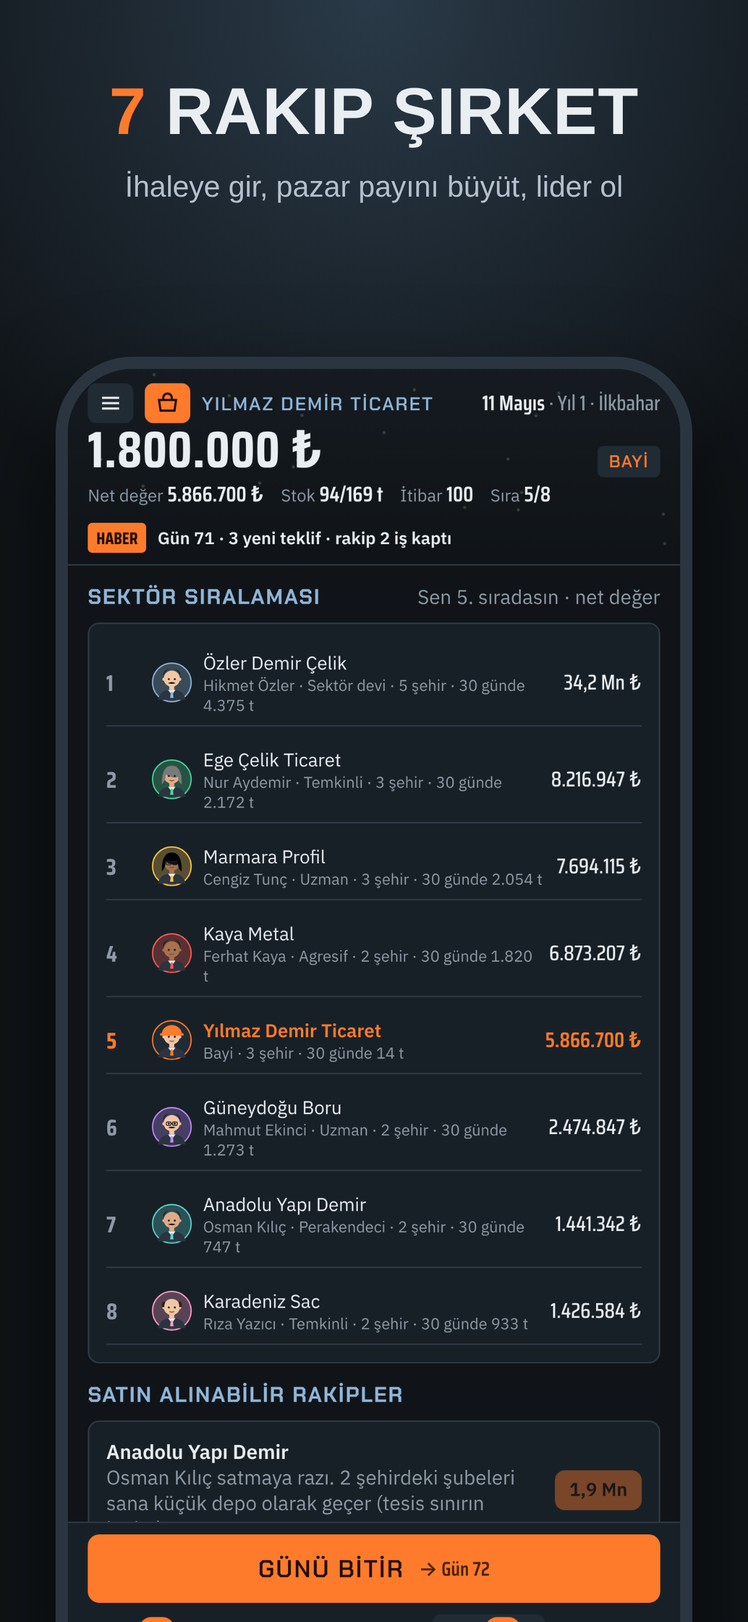
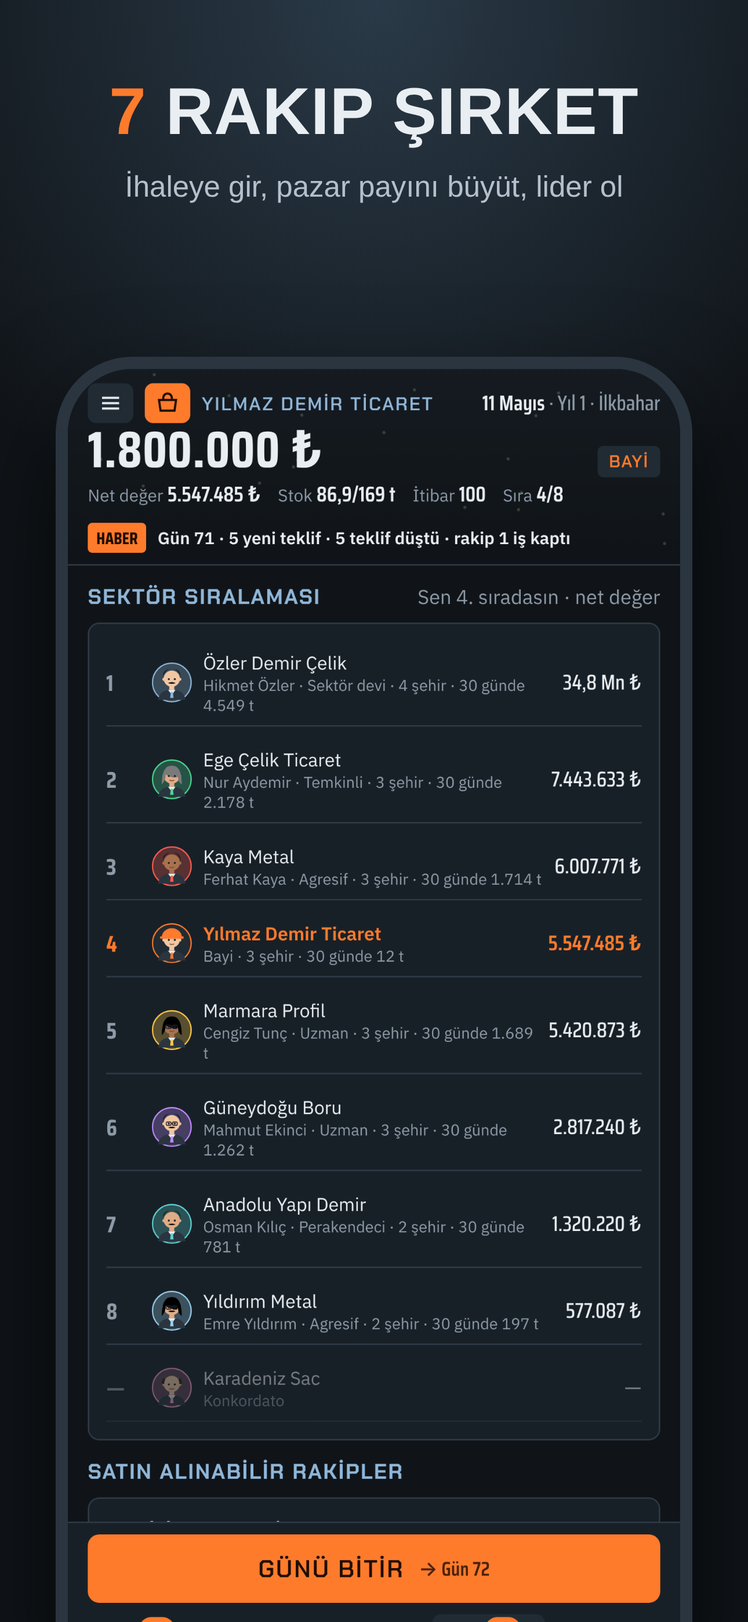
Demir Baronu: detailed Turkey map, 30 industrial cities, steel production centres
- Map: Thrace and Anatolia drawn separately (Marmara and straits), lakes,
  Pontic and Taurus ridges, sea names, coastal glow, mill icons, ports;
  industry view and per-category price heat view; zoom with panning
- 15 new cities with OSBs (Çorlu, Balıkesir, Denizli, Karabük, Ereğli,
  İskenderun, Osmaniye, Kahramanmaraş, Malatya, Sivas, Arsin, Erzurum,
  Diyarbakır, Kırıkkale, Çorum) and an industry profile for every city
  that shapes what its customers order
- Nine steel/pipe production centres: city prices drift toward a level set
  by distance to the nearest producer (centred on the national price);
  mill orders take 1-5 days by distance; trade panel shows the producer
- Saves get the new cities automatically; balance re-checked

Claude-Session: https://claude.ai/code/session_016sMKQh1ngtHg4vQwRxme7Z

diff --git a/DemirBaronu/web/play.html b/DemirBaronu/web/play.html
@@ -247,6 +247,9 @@ svg.nw { width: 100%; height: 90px; display: block; }
 svg.map { width: 100%; height: auto; display: block; }
 svg.map text { font-family: var(--body); paint-order: stroke; stroke: #0f2233; stroke-width: 2.5px; }
 svg.map .route { animation: route 1.6s linear infinite; opacity: .85; }
+.mapwrap { overflow-x: auto; border-radius: 8px; scrollbar-width: none; }
+.mapwrap::-webkit-scrollbar { display: none; }
+.mapwrap.zoom svg.map { width: 210%; max-width: none; }
 @keyframes route { to { stroke-dashoffset: -14; } }
 @media (prefers-reduced-motion: reduce) { svg.map .route { animation: none; } }
 .steps { display: flex; gap: 3px; }
@@ -385,24 +388,75 @@ const PRODUCTS = [
 ].map(([id, name, cat, spec, w, base, lvl, pop]) => ({ id, name, cat, spec, w, base, lvl, pop }));
 const P = Object.fromEntries(PRODUCTS.map(p => [p.id, p]));
 
+// Industry profile of a city: which products its factories order more of
+const INDUSTRIES = {
+  oto: { name: "Otomotiv", demand: { sac: 1.8, dolu: 1.4 } },
+  beyaz: { name: "Beyaz eşya", demand: { sac: 1.9 } },
+  insaat: { name: "İnşaat", demand: { insaat: 1.7, profil: 1.3 } },
+  makina: { name: "Makine imalatı", demand: { dolu: 1.8, profil: 1.3, sac: 1.2 } },
+  tarim: { name: "Tarım makineleri", demand: { profil: 1.5, boru: 1.4, dolu: 1.3 } },
+  enerji: { name: "Enerji ve doğalgaz", demand: { boru: 1.9 } },
+  tersane: { name: "Tersane", demand: { sac: 1.7 } },
+  mobilya: { name: "Mobilya ve raf", demand: { profil: 1.7, ozel: 1.2 } },
+  savunma: { name: "Savunma", demand: { ozel: 1.6, sac: 1.3, dolu: 1.3 } },
+  gida: { name: "Gıda ekipmanı", demand: { ozel: 1.8 } },
+  tekstil: { name: "Tekstil", demand: { profil: 1.2 } },
+  celik: { name: "Çelik üretimi", demand: {} },
+};
 const CITIES = [
-  ["ist", "İstanbul", "İkitelli", 41.07, 28.80, 1.6, true],
-  ["koc", "Kocaeli", "Dilovası", 40.78, 29.53, 1.0, true],
-  ["bur", "Bursa", "Demirtaş OSB", 40.26, 29.08, 1.1, false],
-  ["sak", "Sakarya", "Hendek OSB", 40.80, 30.40, 0.5, false],
-  ["esk", "Eskişehir", "Eskişehir OSB", 39.78, 30.52, 0.6, false],
-  ["ank", "Ankara", "Ostim", 39.97, 32.75, 1.3, false],
-  ["izm", "İzmir", "Çiğli AOSB", 38.48, 27.05, 1.2, true],
-  ["man", "Manisa", "Manisa OSB", 38.61, 27.43, 0.6, false],
-  ["ant", "Antalya", "Antalya OSB", 36.95, 30.65, 0.7, true],
-  ["kon", "Konya", "Büsan", 37.92, 32.52, 0.9, false],
-  ["kay", "Kayseri", "Kayseri OSB", 38.72, 35.48, 0.7, false],
-  ["ada", "Adana", "Hacı Sabancı OSB", 37.02, 35.32, 0.8, false],
-  ["mer", "Mersin", "Mersin Limanı", 36.80, 34.64, 0.7, true],
-  ["gaz", "Gaziantep", "Başpınar OSB", 37.17, 37.42, 0.9, false],
-  ["sam", "Samsun", "Tekkeköy", 41.21, 36.45, 0.6, true],
-].map(([id, name, osb, lat, lon, size, port]) => ({ id, name, osb, lat, lon, size, port }));
+  ["ist", "İstanbul", "İkitelli", 41.07, 28.80, 1.6, true, ["makina", "insaat", "oto"]],
+  ["tek", "Tekirdağ", "Çorlu OSB", 41.16, 27.80, 0.6, true, ["tekstil", "gida"]],
+  ["koc", "Kocaeli", "Dilovası", 40.78, 29.53, 1.0, true, ["oto", "tersane", "celik"]],
+  ["sak", "Sakarya", "Hendek OSB", 40.80, 30.40, 0.5, false, ["oto"]],
+  ["bur", "Bursa", "Demirtaş OSB", 40.26, 29.08, 1.1, false, ["oto", "tekstil"]],
+  ["bal", "Balıkesir", "Balıkesir OSB", 39.65, 27.88, 0.4, false, ["gida", "makina"]],
+  ["esk", "Eskişehir", "Eskişehir OSB", 39.78, 30.52, 0.6, false, ["beyaz", "makina"]],
+  ["izm", "İzmir", "Çiğli AOSB", 38.48, 27.10, 1.2, true, ["celik", "makina", "gida"]],
+  ["man", "Manisa", "Manisa OSB", 38.61, 27.43, 0.6, false, ["beyaz"]],
+  ["den", "Denizli", "Denizli OSB", 37.78, 29.09, 0.5, false, ["tekstil", "makina"]],
+  ["ant", "Antalya", "Antalya OSB", 36.95, 30.65, 0.7, true, ["insaat", "gida"]],
+  ["kon", "Konya", "Büsan", 37.92, 32.52, 0.9, false, ["tarim", "makina"]],
+  ["ank", "Ankara", "Ostim", 39.97, 32.75, 1.3, false, ["savunma", "makina", "insaat"]],
+  ["kir", "Kırıkkale", "Kırıkkale OSB", 39.85, 33.51, 0.3, false, ["savunma", "celik"]],
+  ["kar", "Karabük", "Karabük OSB", 41.20, 32.62, 0.3, false, ["celik"]],
+  ["zon", "Zonguldak", "Ereğli", 41.28, 31.42, 0.4, true, ["celik", "tersane"]],
+  ["cor", "Çorum", "Çorum OSB", 40.55, 34.95, 0.3, false, ["makina", "tarim"]],
+  ["sam", "Samsun", "Tekkeköy", 41.21, 36.45, 0.6, true, ["tarim", "insaat"]],
+  ["tra", "Trabzon", "Arsin OSB", 40.95, 39.93, 0.5, true, ["insaat", "tersane"]],
+  ["siv", "Sivas", "Sivas OSB", 39.75, 37.02, 0.3, false, ["makina", "enerji"]],
+  ["kay", "Kayseri", "Kayseri OSB", 38.72, 35.48, 0.7, false, ["mobilya", "makina"]],
+  ["erz", "Erzurum", "Erzurum OSB", 39.90, 41.27, 0.3, false, ["insaat"]],
+  ["mal", "Malatya", "Malatya OSB", 38.35, 38.31, 0.4, false, ["insaat"]],
+  ["kah", "Kahramanmaraş", "Kahramanmaraş OSB", 37.58, 36.93, 0.5, false, ["tekstil", "insaat"]],
+  ["diy", "Diyarbakır", "Diyarbakır OSB", 37.91, 40.24, 0.5, false, ["insaat", "enerji"]],
+  ["gaz", "Gaziantep", "Başpınar OSB", 37.17, 37.42, 0.9, false, ["makina", "tekstil"]],
+  ["osm", "Osmaniye", "Osmaniye OSB", 37.07, 36.25, 0.3, false, ["celik", "insaat"]],
+  ["isk", "Hatay", "İskenderun", 36.59, 36.17, 0.6, true, ["celik", "enerji"]],
+  ["ada", "Adana", "Hacı Sabancı OSB", 37.02, 35.32, 0.8, false, ["tarim", "gida"]],
+  ["mer", "Mersin", "Mersin Limanı", 36.80, 34.64, 0.7, true, ["insaat", "enerji"]],
+].map(([id, name, osb, lat, lon, size, port, ind]) => ({ id, name, osb, lat, lon, size, port, ind }));
 const C = Object.fromEntries(CITIES.map(c => [c.id, c]));
+// Steel and pipe production centres. Prices are lowest near them; mill orders arrive faster from close by.
+const MILLS = [
+  { city: "zon", name: "Ereğli yassı çelik", cats: ["sac"] },
+  { city: "isk", name: "İskenderun entegre çelik", cats: ["sac", "profil", "insaat"] },
+  { city: "kar", name: "Karabük haddehanesi", cats: ["profil", "insaat", "dolu"] },
+  { city: "izm", name: "Aliağa ark ocakları", cats: ["insaat", "dolu", "profil"] },
+  { city: "koc", name: "Dilovası çelik ve boru", cats: ["boru", "sac", "profil"] },
+  { city: "osm", name: "Osmaniye haddehaneleri", cats: ["insaat"] },
+  { city: "kir", name: "Kırıkkale dövme çelik", cats: ["dolu"] },
+  { city: "ist", name: "İstanbul boru fabrikaları", cats: ["boru"] },
+  { city: "bur", name: "Bursa paslanmaz servis merkezi", cats: ["ozel"] },
+];
+const cityDemand = (cityId, cat) => (C[cityId].ind || []).reduce((m, k) => Math.max(m, (INDUSTRIES[k].demand[cat] || 1)), 1);
+function nearestMill(cat, cityId) { let best = null; for (const m of MILLS) if (m.cats.includes(cat)) { const d = km(m.city, cityId); if (!best || d < best.d) best = { ...m, d }; } return best; }
+const millDays = (pid, cityId) => { const m = nearestMill(P[pid].cat, cityId); return m ? 1 + Math.min(4, Math.ceil(m.d / 350)) : SUPPLY.mill.days; };
+// Long-run price level of a city: about −3% next to a mill, rising with distance (+3.5% at most)
+const rawTarget = (cityId, cat) => { const m = nearestMill(cat, cityId); return m ? Math.max(-0.03, Math.min(0.035, -0.03 + m.d * 0.00004)) : 0; };
+const OFF_MEAN = {};
+// centred so the size-weighted average city sits at the national price
+const offTarget = (cityId, cat) => { if (OFF_MEAN[cat] === undefined) { let t = 0, w = 0; for (const c of CITIES) { t += rawTarget(c.id, cat) * c.size; w += c.size; } OFF_MEAN[cat] = t / w; }
+  return rawTarget(cityId, cat) - OFF_MEAN[cat]; };
 
 const LEVELS = [
   { name: "Komisyoncu", tons: 0, worth: 0, qty: [0.5, 2.5], loan: 0, max: 3, locs: 1, perk: "Aracılıkla başla" },
@@ -635,7 +689,8 @@ function migrate(s) {
     slitUsed: 0, credIns: false, scen: null, legacy: 0, fxShock: 0 };
   for (const k in d) if (s[k] === undefined) s[k] = d[k];
   if (!s.rivals) s.rivals = RIVAL_DEFS.map(mkRival);
-  if (!s.cityOff) { s.cityOff = {}; for (const c of CITIES) { s.cityOff[c.id] = {}; for (const k in CATS) s.cityOff[c.id][k] = Math.round(rnd(-0.04, 0.04) * 1e4) / 1e4; } }
+  if (!s.cityOff) s.cityOff = {};
+  for (const c of CITIES) { if (!s.cityOff[c.id]) s.cityOff[c.id] = {}; for (const k in CATS) if (s.cityOff[c.id][k] === undefined) s.cityOff[c.id][k] = Math.round((offTarget(c.id, k) + rnd(-0.02, 0.02)) * 1e4) / 1e4; }
   for (const k of ["tenders", "tendersWon", "rivalsTaken", "fairs", "bids", "credit", "recovered", "legalCost", "scrap", "acquired", "suitsWon"]) if (s.stats[k] === undefined) s.stats[k] = 0;
   for (const r of s.recv) { if (!r.status) r.status = "normal"; if (r.delays === undefined) r.delays = 0; }
   return s;
@@ -736,7 +791,7 @@ function stepMarket(silent) {
   if (S.fxShock > 0) S.fxShock--;
   S.fxPrev = S.fx; S.fx = Math.round(S.fx * Math.exp(fxd) * 100) / 100;
   S.g = S.g * 0.985 + catDrift("__global") + gauss() * 0.004 + fxd * 0.5;
-  for (const c in S.cityOff) for (const k in S.cityOff[c]) S.cityOff[c][k] = Math.round(Math.max(-0.07, Math.min(0.07, S.cityOff[c][k] * 0.97 + gauss() * 0.004)) * 1e4) / 1e4;
+  for (const c in S.cityOff) { if (!C[c]) continue; for (const k in S.cityOff[c]) S.cityOff[c][k] = Math.round(Math.max(-0.07, Math.min(0.07, S.cityOff[c][k] * 0.97 + offTarget(c, k) * 0.03 + gauss() * 0.004)) * 1e4) / 1e4; }
   for (const p of PRODUCTS) {
     const m = S.market[p.id];
     m.d = Math.max(-0.35, Math.min(0.35, m.d * 0.96 + catDrift(p.cat) + gauss() * CATS[p.cat].vol));
@@ -759,9 +814,9 @@ function genOffer() {
   const L = LEVELS[level()], lv = level();
   const prods = unlocked();
   const sea = season();
-  const quake = S.scen && S.scen.id === "quake" && !S.scen.done;
-  const prod = wpick(prods, prods.map(p => p.pop * (catDrift(p.cat) > 0 ? 2 : 1) * (sea.demand[p.cat] || 1) * (quake && p.cat === "insaat" ? 3 : 1)));
-  const city = wpick(CITIES, CITIES.map(c => c.size * (c.id === S.home ? 3 : S.locs.some(l => l.city === c.id) ? 2 : 1) * (fairOn() && S.event.city === c.id ? 3 : 1) * (quake && ["gaz", "ada", "kay", "mer"].includes(c.id) ? 2 : 1)));
+  const quake = S.scen && S.scen.id === "quake" && !S.scen.done, QUAKE = ["gaz", "ada", "kay", "mer", "kah", "mal", "isk", "osm", "diy"];
+  const city = wpick(CITIES, CITIES.map(c => c.size * (c.id === S.home ? 3 : S.locs.some(l => l.city === c.id) ? 2 : 1) * (fairOn() && S.event.city === c.id ? 3 : 1) * (quake && QUAKE.includes(c.id) ? 2 : 1)));
+  const prod = wpick(prods, prods.map(p => p.pop * (catDrift(p.cat) > 0 ? 2 : 1) * (sea.demand[p.cat] || 1) * cityDemand(city.id, p.cat) * (quake && p.cat === "insaat" && QUAKE.includes(city.id) ? 3 : 1)));
   let qty = Math.max(0.5, Math.round(rnd(L.qty[0], L.qty[1]) * (1 + 0.08 * S.staff.sales) * 2) / 2);
   if (prod.base > 100000) qty = Math.max(0.5, Math.round(qty / 4 * 2) / 2);
   const firm = pick(FIRMS), loyal = (S.rel[firm] || 0) >= 3, black = !!S.black[firm];
@@ -913,8 +968,9 @@ function buy(id, q, mode = "spot", locId = UI.loc) {
   if (S.cash < cost) return toast("Nakit yetersiz. Bankadan kredi çekebilirsin.", true);
   S.cash -= cost;
   if (mode === "spot") { addStock(l, id, q, unit); toast(`${ton(q)} ${P[id].name} ${C[l.city].name} tesisine girdi: ${tl(cost)}`); }
-  else { S.incoming.push({ pid: id, q, unit, loc: l.id, arrive: S.day + SUPPLY[mode].days, mode });
-    toast(`${SUPPLY[mode].name}: ${ton(q)} ${P[id].name} sipariş edildi, ${SUPPLY[mode].days} gün sonra gelir.`); }
+  else { const days = millDays(id, l.city), mill = nearestMill(P[id].cat, l.city);
+    S.incoming.push({ pid: id, q, unit, loc: l.id, arrive: S.day + days, mode });
+    toast(`${mill ? mill.name : "Fabrika"}: ${ton(q)} ${P[id].name} sipariş edildi, ${days} gün sonra gelir.`); }
   checkAch(); save(); render();
 }
 function sellBack(id, q, locId) {
@@ -1510,6 +1566,8 @@ const ACT = {
   skip7: () => { for (let i = 0; i < 7 && !S.over; i++) { endDay(); if (!document.getElementById("modal").hidden) break; } },
   hedge: () => { UI.hedge = !UI.hedge; render(); },
   mapCity: v => { UI.newCity = v; render(); },
+  mapCat: v => { UI.mapCat = v || ""; render(); },
+  mapZoom: () => { UI.mapZoom = !UI.mapZoom; render(); },
   // pick the city nearest to where the map was tapped
   mapTap: (v, e) => { const svg = e.target.closest("svg"); if (!svg || !svg.getScreenCTM) return;
     const pt = svg.createSVGPoint(); pt.x = e.clientX; pt.y = e.clientY; const p = pt.matrixTransform(svg.getScreenCTM().inverse());
@@ -1591,39 +1649,70 @@ const SHAPE_OF = { hrp3: "sheet", dkp1: "sheet", dkp2: "sheet", hrp10: "plate", 
   yuv50: "rod", kare20: "sq", c45: "rod", pas304: "sheet", alu: "sheet", pas316: "sheet", pasboru: "pipe", aluprof: "box" };
 const CAT_COLOR = { sac: "#8fb6d8", profil: "#ffb02e", boru: "#4cd893", insaat: "#ff8a4c", dolu: "#c08cff", ozel: "#dfe7ee" };
 const icon = p => `<span class="pic" style="color:${CAT_COLOR[p.cat]}" aria-hidden="true"><svg viewBox="0 0 24 24">${SHAPES[SHAPE_OF[p.id]] || SHAPES.sheet}</svg></span>`;
-// Rough outline of Turkey (lon, lat) for a schematic map
-const TR_OUTLINE = [[26.0, 41.8], [28.0, 41.95], [29.1, 41.25], [31.3, 41.15], [33.3, 42.0], [35.1, 42.05], [36.9, 41.35], [38.4, 40.95], [40.1, 41.0], [41.5, 41.5],
-  [43.4, 41.15], [44.8, 39.75], [44.3, 38.9], [44.3, 37.2], [42.5, 37.1], [40.3, 37.1], [38.1, 36.8], [36.7, 36.9], [36.1, 35.85], [35.8, 36.35], [34.7, 36.8],
-  [33.3, 36.1], [32.0, 36.55], [30.6, 36.85], [29.7, 36.2], [28.2, 36.7], [27.3, 37.0], [26.4, 38.3], [26.7, 39.3], [26.1, 39.9], [26.6, 40.4], [26.0, 40.7]];
+// Turkey (lon, lat): Thrace and Anatolia as two shapes so the Marmara Sea and the straits show
+const TR_THRACE = [[26.03, 40.73], [26.36, 40.95], [26.6, 41.33], [26.32, 41.72], [26.6, 41.97], [27.2, 42.08], [28.0, 41.98], [28.55, 41.5], [29.05, 41.25], [29.0, 41.05],
+  [28.6, 40.97], [28.0, 40.98], [27.5, 40.97], [27.0, 40.65], [26.68, 40.43], [26.2, 40.04], [26.4, 40.35], [26.05, 40.6]];
+const TR_ANATOLIA = [[29.12, 41.22], [30.0, 41.15], [30.4, 41.2], [31.2, 41.1], [31.8, 41.45], [32.4, 41.75], [33.3, 41.98], [34.0, 42.0], [35.0, 42.1], [35.6, 41.65],
+  [36.3, 41.3], [37.0, 41.2], [37.7, 41.05], [38.4, 40.95], [39.7, 41.0], [40.5, 41.05], [41.5, 41.52], [42.5, 41.4], [43.4, 41.15], [43.6, 40.6], [43.7, 40.1],
+  [44.4, 39.9], [44.8, 39.65], [44.3, 39.4], [44.0, 38.4], [44.3, 37.9], [44.8, 37.3], [44.2, 37.15], [42.8, 37.35], [42.2, 37.1], [41.2, 37.07], [40.2, 36.95],
+  [39.2, 36.68], [38.2, 36.85], [37.2, 36.65], [36.7, 36.85], [36.6, 36.2], [36.15, 35.85], [35.85, 35.95], [35.9, 36.45], [36.2, 36.6], [36.05, 36.92],
+  [35.8, 36.75], [35.4, 36.55], [34.6, 36.78], [34.2, 36.55], [33.9, 36.3], [32.8, 36.02], [32.0, 36.53], [30.7, 36.85], [30.55, 36.6], [30.15, 36.3],
+  [29.6, 36.2], [29.1, 36.6], [28.8, 36.75], [28.25, 36.8], [27.4, 36.7], [27.4, 37.03], [27.25, 37.4], [27.25, 37.85], [26.3, 38.3], [26.45, 38.65],
+  [26.7, 38.45], [27.05, 38.45], [26.85, 38.75], [26.95, 38.8], [26.85, 39.07], [26.65, 39.3], [27.0, 39.55], [26.2, 39.5], [26.4, 40.15], [26.7, 40.4],
+  [27.3, 40.4], [27.9, 40.35], [28.5, 40.4], [29.0, 40.37], [28.95, 40.6], [29.5, 40.7], [29.95, 40.75], [29.4, 40.8], [29.1, 40.98]];
+const RIDGES = [[[31.5, 41.0], [33, 41.2], [35, 41.0], [37, 40.7], [39, 40.5], [41, 40.6], [42.5, 40.9]],
+  [[29.3, 37.1], [30.8, 37.4], [32.5, 37.0], [34, 37.2], [35.5, 37.7], [37, 38.05], [38.5, 38.25], [40, 38.45], [42, 38.25], [43.5, 38.0]]];
+const LAKES = [[42.95, 38.65, 0.55, 0.22, -12], [33.4, 38.75, 0.28, 0.22, 0], [31.5, 37.72, 0.16, 0.12, 0], [30.85, 38.02, 0.08, 0.2, 20]];
 const MX = lon => (lon - 25.6) * 18.4, MY = lat => (42.4 - lat) * 23.7;
+const ptsOf = arr => arr.map(([lo, la]) => `${MX(lo).toFixed(1)},${MY(la).toFixed(1)}`).join(" ");
+// green (cheap) → amber → red (expensive)
+const heat = t => { t = Math.max(-1, Math.min(1, t)); return t < 0 ? `hsl(${48 + -t * 82} ${70 - -t * 10}% ${52 - -t * 6}%)` : `hsl(${48 - t * 44} 85% 52%)`; };
+// position of a city's price between the cheapest (−1) and the dearest (+1) city for a category
+const heatPos = (cityId, cat) => { const v = CITIES.map(c => cityOff(c.id, cat)), lo = Math.min(...v), hi = Math.max(...v); return hi - lo < 1e-6 ? 0 : (cityOff(cityId, cat) - lo) / (hi - lo) * 2 - 1; };
 function mapSvg() {
-  const pts = TR_OUTLINE.map(([lo, la]) => `${MX(lo).toFixed(1)},${MY(la).toFixed(1)}`).join(" ");
-  const sel = UI.newCity || S.home;
-  let h = `<svg class="map" viewBox="0 0 362 166" data-act="mapTap" style="cursor:pointer" role="img" aria-label="Türkiye haritası: turuncu noktalar senin tesislerin, küçük renkli noktalar rakip şubeleri">
-    <defs><linearGradient id="sea" x1="0" y1="0" x2="0" y2="1"><stop offset="0" stop-color="#16324a"/><stop offset="1" stop-color="#0f2233"/></linearGradient>
-    <linearGradient id="land" x1="0" y1="0" x2="1" y2="1"><stop offset="0" stop-color="#2f3b46"/><stop offset="1" stop-color="#232c35"/></linearGradient></defs>
-    <rect x="0" y="0" width="362" height="166" rx="6" fill="url(#sea)"/>
-    <g stroke="rgba(160,210,255,.12)" fill="none">${[30, 60, 90, 120, 150].map(y => `<path d="M0 ${y}q45 -4 90 0t90 0t90 0t92 0"/>`).join("")}</g>
-    <polygon points="${pts}" fill="url(#land)" stroke="#55677a" stroke-width="1.2" stroke-linejoin="round"/>`;
+  const sel = UI.newCity || S.home, cat = UI.mapCat || "";
+  let h = `<svg class="map" viewBox="0 0 362 166" data-act="mapTap" style="cursor:pointer" role="img" aria-label="Türkiye sanayi haritası: tesislerin, çelik üretim merkezleri, rakip şubeleri${cat ? " ve " + CATS[cat].name + " fiyatları" : ""}">
+    <defs><linearGradient id="sea" x1="0" y1="0" x2="0" y2="1"><stop offset="0" stop-color="#173852"/><stop offset="1" stop-color="#0d2132"/></linearGradient>
+    <linearGradient id="land" x1="0" y1="0" x2="0.3" y2="1"><stop offset="0" stop-color="#3a4a3c"/><stop offset=".55" stop-color="#3b4038"/><stop offset="1" stop-color="#4a4434"/></linearGradient>
+    <filter id="coast" x="-5%" y="-5%" width="110%" height="110%"><feGaussianBlur stdDeviation="2.2"/></filter>
+    <clipPath id="trclip"><polygon points="${ptsOf(TR_THRACE)}"/><polygon points="${ptsOf(TR_ANATOLIA)}"/></clipPath></defs>
+    <rect x="0" y="0" width="362" height="166" rx="8" fill="url(#sea)"/>
+    <g stroke="rgba(160,210,255,.1)" fill="none">${[22, 48, 140, 156].map(y => `<path d="M0 ${y}q45 -4 90 0t90 0t90 0t92 0"/>`).join("")}</g>
+    <g fill="none" stroke="rgba(140,200,255,.35)" stroke-width="5" filter="url(#coast)"><polygon points="${ptsOf(TR_THRACE)}"/><polygon points="${ptsOf(TR_ANATOLIA)}"/></g>
+    <g fill="url(#land)" stroke="#7d8f80" stroke-width=".9" stroke-linejoin="round"><polygon points="${ptsOf(TR_THRACE)}"/><polygon points="${ptsOf(TR_ANATOLIA)}"/></g>
+    <g clip-path="url(#trclip)" stroke="rgba(255,240,210,.16)" stroke-width="1" fill="none">${RIDGES.map(r => { let d = ""; for (let i = 0; i < r.length - 1; i++) for (let k = 0; k < 1; k += 0.2) {
+      const lo = r[i][0] + (r[i + 1][0] - r[i][0]) * k, la = r[i][1] + (r[i + 1][1] - r[i][1]) * k, x = MX(lo), y = MY(la); d += `M${(x - 3).toFixed(1)} ${(y + 2).toFixed(1)}l3 -3.5l3 3.5`; } return `<path d="${d}"/>`; }).join("")}</g>
+    ${LAKES.map(([lo, la, rx, ry, rot]) => `<ellipse cx="${MX(lo).toFixed(1)}" cy="${MY(la).toFixed(1)}" rx="${(rx * 18.4).toFixed(1)}" ry="${(ry * 23.7).toFixed(1)}" transform="rotate(${rot} ${MX(lo).toFixed(1)} ${MY(la).toFixed(1)})" fill="#1c4563" stroke="rgba(140,200,255,.3)" stroke-width=".6"/>`).join("")}
+    <g class="seas" font-size="7.5" font-style="italic" fill="rgba(170,205,235,.55)" letter-spacing="1.5"><text x="${MX(32.2)}" y="${MY(42.12)}">KARADENİZ</text><text x="${MX(31.2)}" y="${MY(35.9)}">AKDENİZ</text>
+      <text x="${MX(25.68)}" y="${MY(37.6)}" font-size="6.5">EGE</text><text x="${MX(27.6)}" y="${MY(40.72)}" font-size="5.5" letter-spacing=".5">MARMARA</text></g>`;
   const homeLoc = S.locs.find(l => l.city === S.home) || S.locs[0];
   if (homeLoc) for (const c of [...new Set(S.locs.map(l => l.city))].filter(c => c !== homeLoc.city)) {
     const a = C[homeLoc.city], b = C[c], mx = (MX(a.lon) + MX(b.lon)) / 2, my = (MY(a.lat) + MY(b.lat)) / 2 - 14;
     h += `<path class="route" d="M${MX(a.lon).toFixed(1)} ${MY(a.lat).toFixed(1)}Q${mx.toFixed(1)} ${my.toFixed(1)} ${MX(b.lon).toFixed(1)} ${MY(b.lat).toFixed(1)}" fill="none" stroke="var(--hot)" stroke-width="1.4" stroke-dasharray="3 4"/>`;
   }
+  for (const m of MILLS) { if (cat && !m.cats.includes(cat)) continue; const c = C[m.city], x = MX(c.lon) - 6, y = MY(c.lat) - 9;
+    h += `<g aria-hidden="true" transform="translate(${x.toFixed(1)} ${y.toFixed(1)})"><path d="M0 7V3l2.2 1.4V3l2.2 1.4V0h1.6v7z" fill="#c9d3dc" stroke="#0d2132" stroke-width=".5"/><circle cx="5.3" cy="-1.4" r="1.2" fill="rgba(220,225,230,.45)"/></g>`; }
+  const big = new Set(["ist", "ank", "izm"]);
   for (const c of CITIES) {
     const x = MX(c.lon), y = MY(c.lat), mine = S.locs.some(l => l.city === c.id), rv = S.rivals.filter(r => r.alive && r.cities.includes(c.id));
     h += `<g data-city="${c.id}">`;
-    rv.forEach((r, i) => { const a = i / rv.length * Math.PI * 2 - Math.PI / 2; h += `<circle cx="${(x + Math.cos(a) * 7.5).toFixed(1)}" cy="${(y + Math.sin(a) * 7.5).toFixed(1)}" r="2.1" fill="${r.color}"/>`; });
-    if (c.id === sel) h += `<circle cx="${x.toFixed(1)}" cy="${y.toFixed(1)}" r="9" fill="none" stroke="var(--fg)" stroke-dasharray="2 2"/>`;
-    h += `<circle cx="${x.toFixed(1)}" cy="${y.toFixed(1)}" r="${mine ? 5 : 3.2}" fill="${mine ? "var(--hot)" : "var(--muted)"}" stroke="var(--bg)"/>`;
-    if (mine || c.id === sel || ["ist", "ank", "izm"].includes(c.id)) h += `<text x="${(x + 7).toFixed(1)}" y="${(y - 6).toFixed(1)}" font-size="9" fill="${mine || c.id === sel ? "var(--fg)" : "var(--muted)"}">${c.name}</text>`;
+    if (!cat) rv.forEach((r, i) => { const a = i / rv.length * Math.PI * 2 - Math.PI / 2; h += `<circle cx="${(x + Math.cos(a) * 6.5).toFixed(1)}" cy="${(y + Math.sin(a) * 6.5).toFixed(1)}" r="1.8" fill="${r.color}"/>`; });
+    if (c.id === sel) h += `<circle cx="${x.toFixed(1)}" cy="${y.toFixed(1)}" r="8.5" fill="none" stroke="var(--fg)" stroke-width="1.1" stroke-dasharray="2 2"/>`;
+    const fill = cat ? heat(heatPos(c.id, cat)) : mine ? "var(--hot)" : c.port ? "#8fc6ef" : "#c9d3dc";
+    h += `<circle cx="${x.toFixed(1)}" cy="${y.toFixed(1)}" r="${cat ? 4 : mine ? 4.6 : 2.6}" fill="${fill}" stroke="#0d2132" stroke-width="1"/>`;
+    if (mine && cat) h += `<circle cx="${x.toFixed(1)}" cy="${y.toFixed(1)}" r="6" fill="none" stroke="var(--hot)" stroke-width="1.4"/>`;
+    if (UI.mapZoom || mine || c.id === sel || big.has(c.id)) h += `<text x="${(x + 6).toFixed(1)}" y="${(y - 5).toFixed(1)}" font-size="${UI.mapZoom && !(mine || c.id === sel || big.has(c.id)) ? 6 : 8.5}" font-weight="${c.id === sel ? 700 : 500}" fill="${mine || c.id === sel ? "#fff" : "rgba(233,238,242,.75)"}">${c.name}${cat && c.id === sel ? " " + pct(cityOff(c.id, cat)) : ""}</text>`;
     h += `</g>`;
   }
   return h + `</svg>`;
 }
 function cityInfo(id) {
-  const c = C[id], mine = S.locs.filter(l => l.city === id), rv = S.rivals.filter(r => r.alive && r.cities.includes(id));
+  const c = C[id], mine = S.locs.filter(l => l.city === id), rv = S.rivals.filter(r => r.alive && r.cities.includes(id)), mills = MILLS.filter(m => m.city === id);
+  const want = Object.keys(CATS).filter(k => cityDemand(id, k) > 1.25).map(k => CATS[k].name);
   return `<div class="line2"><span><b style="font-family:var(--body)">${c.name} · ${c.osb}</b>${c.port ? " · liman" : ""}</span><b>${km(S.home, id) ? nf0.format(km(S.home, id)) + " km" : "merkez"}</b></div>
+    <div class="chips">${(c.ind || []).map(k => `<span class="chip ${k === "celik" ? "hot" : "st"}">${INDUSTRIES[k].name}</span>`).join("")}</div>
+    ${mills.length ? `<div class="muted">Üretim: ${mills.map(m => `<b style="color:var(--fg)">${m.name}</b> (${m.cats.map(k => CATS[k].name).join(", ")})`).join(" · ")}</div>` : ""}
+    ${want.length ? `<div class="muted">Çok istenen: ${want.join(", ")}</div>` : ""}
     <div class="muted">${mine.length ? `Tesislerin: ${mine.map(l => LOC_TYPES[l.type].name).join(", ")}` : "Burada tesisin yok"} · ${rv.length ? `Rakipler: ${rv.map(r => esc(r.name)).join(", ")}` : "Rakip yok"}</div>
     <div class="chips">${Object.keys(CATS).map(k => { const o = cityOff(id, k); return `<span class="chip ${o < -0.01 ? "g" : o > 0.01 ? "b" : ""}">${CATS[k].name} ${pct(o)}</span>`; }).join("")}</div>`;
 }
@@ -1742,7 +1831,7 @@ function tradePanel(p) {
   const hist = S.market[p.id].hist.slice(-30), lo = Math.min(...hist), hi = Math.max(...hist);
   const byCity = CITIES.map(c => [c, priceAt(p.id, c.id)]).sort((a, b) => a[1] - b[1]), cheap = byCity[0], dear = byCity[byCity.length - 1];
   const sup = mode => { const b = supplyBlock(mode, q, l), s = SUPPLY[mode], c = buyCost(p.id, q, mode, l.city);
-    const sub = b || (mode === "imp" ? `peşinat ${tl(c * 0.3 * (UI.hedge ? 1.015 : 1))} · 20 gün` : tl(c) + (s.days ? " · " + s.days + " gün" : " · hemen"));
+    const sub = b || (mode === "imp" ? `peşinat ${tl(c * 0.3 * (UI.hedge ? 1.015 : 1))} · 20 gün` : mode === "mill" ? `${tl(c)} · ${millDays(p.id, l.city)} gün` : tl(c) + " · hemen");
     return `<button class="btn ${mode === "spot" ? "hot" : "st"}" data-act="buy" data-v="${p.id}:${mode}" ${b || q <= 0 ? "disabled" : ""}>${s.name}${s.disc ? " −%" + Math.round(s.disc * 100) : ""}<small>${sub}</small></button>`; };
   return `<div class="trade">
     <canvas class="pscene" data-scene="prod" data-id="${p.id}" data-anim="0" role="img" aria-label="${esc(p.name)} yığını"></canvas>
@@ -1753,6 +1842,7 @@ function tradePanel(p) {
     <div class="line2"><span>${locName(l)} · boş yer</span><b>${ton(locFree(l))}</b></div>
     <div class="line2"><span>${C[l.city].name} fiyatı</span><b>${nf0.format(m)} ₺/t</b></div>
     <div class="line2"><span>En ucuz ${cheap[0].name} <b>${nf0.format(cheap[1])}</b></span><span>en pahalı ${dear[0].name} <b>${nf0.format(dear[1])}</b></span></div>
+    ${(() => { const m = nearestMill(p.cat, l.city); return m ? `<div class="line2"><span>En yakın üretici: ${m.name}</span><b>${m.d ? nf0.format(m.d) + " km" : "aynı şehir"}</b></div>` : ""; })()}
     ${level() >= SUPPLY.imp.lvl ? `<div class="filter"><button aria-pressed="${!!UI.hedge}" data-act="hedge">İthalatta kuru sabitle (+%1,5)</button></div>` : ""}
     ${discount(q) ? `<div class="line2"><span>Toplu alım indirimi</span><b>−%${Math.round(discount(q) * 100)}</b></div>` : ""}
     <div class="btns">${sup("spot")}${sup("mill")}${sup("imp")}</div>
@@ -1800,8 +1890,13 @@ function locCard(l) {
   return h + `</div>`;
 }
 function renderStock() {
-  let h = `<section class="sec"><div class="sechead"><h2>Harita</h2><span class="muted">şehre dokun · fiyat farkları</span></div><div class="card">${mapSvg()}${cityInfo(UI.newCity || S.home)}
-    <div class="legend"><span><i style="background:var(--hot)"></i>Senin tesisin</span><span><i style="background:var(--muted)"></i>Şehir</span><span>Küçük renkli noktalar: rakip şubeleri</span></div></div></section>`;
+  const mc = UI.mapCat || "";
+  let h = `<section class="sec"><div class="sechead"><h2>Sanayi haritası</h2><button class="btn ghost sm" data-act="mapZoom" aria-pressed="${!!UI.mapZoom}">${UI.mapZoom ? "Küçült" : "Büyüt"}</button></div><div class="card">
+    <div class="filter">${[["", "Sanayi"], ...Object.keys(CATS).map(k => [k, CATS[k].name.split(" ")[0]])].map(([k, n]) => `<button aria-pressed="${mc === k}" data-act="mapCat" data-v="${k}">${k ? n + " fiyatı" : n}</button>`).join("")}</div>
+    <div class="mapwrap ${UI.mapZoom ? "zoom" : ""}">${mapSvg()}</div>
+    <div class="legend">${mc ? `<span><i style="background:${heat(-1)}"></i>En ucuz</span><span><i style="background:${heat(0)}"></i>Orta</span><span><i style="background:${heat(1)}"></i>En pahalı</span><span>⌂ ${CATS[mc].name} üreticisi</span>`
+      : `<span><i style="background:var(--hot)"></i>Senin tesisin</span><span><i style="background:#c9d3dc"></i>Sanayi şehri</span><span><i style="background:#8fc6ef"></i>Liman</span><span>⌂ Çelik üretimi</span><span>Renkli nokta: rakip</span>`}</div>
+    ${cityInfo(UI.newCity || S.home)}</div></section>`;
   h += `<section class="sec"><div class="sechead"><h2>Tesisler</h2><span class="muted">${S.locs.length}/${maxLocs()} · ${nf1.format(stockTotal())}/${nf0.format(capTotal())} t</span></div>`;
   if (!S.locs.length) h += `<canvas class="scene" data-scene="empty" data-anim="0" role="img" aria-label="Boş arsa: kiralık depo"></canvas>`;
   if (!S.locs.length) h += `<div class="hint">Henüz tesisin yok. <b>Depo</b> ucuzdur ve stok tutar. <b>Dükkan</b> pahalıdır ama her gün kapıdan perakende müşteri gelir ve stoğunu %8–16 kârla satar.</div>`;
@@ -2537,6 +2632,7 @@ function render() {
   const m = document.getElementById("main"), top = m.scrollTop;
   m.innerHTML = UI.tab === "orders" ? renderOrders() : UI.tab === "market" ? renderMarket() : UI.tab === "stock" ? renderStock() : UI.tab === "rival" ? renderRival() : renderCompany();
   m.scrollTop = top;
+  const mw = m.querySelector(".mapwrap.zoom"); if (mw) { const c = C[UI.newCity || S.home]; mw.scrollLeft = MX(c.lon) / 362 * mw.scrollWidth - mw.clientWidth / 2; }
   document.getElementById("endDay").disabled = S.over;
   visMount();
 }

diff --git a/DemirBaronu/GDD.md b/DemirBaronu/GDD.md
@@ -120,11 +120,49 @@ Aynı firmaya 3 kez teslimat yapılınca firma sadık müşteri olur. Sonraki te
 
 ## 8. Tesisler, lojistik ve tedarik
 
-### Şehirler (15)
+### Şehirler (30) ve sanayi profilleri
 
-İstanbul (İkitelli), Kocaeli (Dilovası), Bursa (Demirtaş OSB), Sakarya (Hendek), Eskişehir, Ankara (Ostim), İzmir (Çiğli AOSB), Manisa, Antalya, Konya (Büsan), Kayseri, Adana (Hacı Sabancı OSB), Mersin (Liman), Gaziantep (Başpınar), Samsun (Tekkeköy). Her şehrin bir talep büyüklüğü vardır (İstanbul 1,6, Sakarya 0,5). Altı şehir **liman** şehridir: İstanbul, Kocaeli, İzmir, Antalya, Mersin, Samsun.
+Her şehrin bir talep büyüklüğü, liman bilgisi ve sanayi profili vardır. Profil o şehirden gelen siparişlerin ürün dağılımını belirler. Örneğin otomotiv şehrinden sac ×1,8 ve dolu mil ×1,4 daha sık istenir.
 
-Mesafe koordinatlardan hesaplanır (kuş uçuşu × 1,25 yol katsayısı). Örnek: İstanbul–Ankara ≈ 440 km.
+| Bölge | Şehir (OSB) · sanayi |
+|---|---|
+| Marmara | İstanbul (İkitelli) makine, inşaat, otomotiv · Tekirdağ (Çorlu) tekstil, gıda · Kocaeli (Dilovası) otomotiv, tersane, çelik · Sakarya (Hendek) otomotiv · Bursa (Demirtaş) otomotiv, tekstil · Balıkesir gıda, makine |
+| İç Anadolu | Eskişehir beyaz eşya, makine · Ankara (Ostim) savunma, makine, inşaat · Kırıkkale savunma, çelik · Konya (Büsan) tarım makineleri · Kayseri mobilya, makine · Sivas makine, enerji · Çorum makine, tarım |
+| Ege | İzmir (Çiğli) çelik, makine, gıda · Manisa beyaz eşya · Denizli tekstil, makine |
+| Karadeniz | Karabük çelik · Zonguldak (Ereğli) çelik, tersane · Samsun (Tekkeköy) tarım, inşaat · Trabzon (Arsin) inşaat, tersane |
+| Akdeniz | Antalya inşaat, gıda · Mersin (Liman) inşaat, enerji · Adana (Hacı Sabancı) tarım, gıda · Osmaniye çelik, inşaat · Hatay (İskenderun) çelik, enerji |
+| Doğu ve Güneydoğu | Gaziantep (Başpınar) makine, tekstil · Kahramanmaraş tekstil, inşaat · Malatya inşaat · Diyarbakır inşaat, enerji · Erzurum inşaat |
+
+Liman şehirleri (10): İstanbul, Tekirdağ, Kocaeli, İzmir, Antalya, Zonguldak, Samsun, Trabzon, Hatay, Mersin.
+
+### Çelik üretim merkezleri
+
+| Merkez | Şehir | Ürünler |
+|---|---|---|
+| Ereğli yassı çelik | Zonguldak | Sac |
+| İskenderun entegre çelik | Hatay | Sac, profil, inşaat demiri |
+| Karabük haddehanesi | Karabük | Profil, inşaat demiri, dolu mil |
+| Aliağa ark ocakları | İzmir | İnşaat demiri, dolu mil, profil |
+| Dilovası çelik ve boru | Kocaeli | Boru, sac, profil |
+| Osmaniye haddehaneleri | Osmaniye | İnşaat demiri |
+| Kırıkkale dövme çelik | Kırıkkale | Dolu mil |
+| İstanbul boru fabrikaları | İstanbul | Boru |
+| Bursa paslanmaz servis merkezi | Bursa | Paslanmaz ve alüminyum |
+
+- **Fiyat:** Her şehrin fiyatı o ürünün en yakın üreticisine olan mesafeye doğru çekilir: üreticinin yanında yaklaşık −%3, uzaklaştıkça artar (en fazla +%3,5). Ortalama şehir ulusal fiyattadır. Bunun üstüne günlük dalgalanma eklenir.
+- **Fabrikadan alım:** Teslim süresi en yakın üreticiye olan mesafeye göre 1–5 gündür (her 350 km +1 gün). Al-sat panelinde en yakın üretici ve uzaklığı yazar.
+- **Deprem Bölgesi senaryosu:** Gaziantep, Adana, Kayseri, Mersin, Kahramanmaraş, Malatya, Hatay, Osmaniye ve Diyarbakır'da inşaat demiri talebi üç kattır.
+
+### Harita
+
+Trakya ve Anadolu ayrı çizilir; Marmara ve boğazlar, Van, Tuz, Beyşehir ve Eğirdir gölleri, Kuzey Anadolu dağları ve Toroslar, deniz adları görünür. Kıyılar hafif parlar. Simgeler:
+
+- çelik üretim merkezleri baca simgesiyle
+- liman şehirleri mavi, senin tesislerin turuncu
+- rakip şubeleri renkli noktalarla
+- merkezinden diğer tesislerine akan sevkiyat rotaları
+
+**Görünümler:** "Sanayi" ve 6 ürün kategorisinin "fiyat" görünümü. Fiyat görünümünde şehirler o ürünün en ucuz (yeşil) ile en pahalı (kırmızı) şehri arasında renklenir. **Büyüt** ile harita iki kat büyür, bütün şehir adları görünür ve yana kaydırılabilir.
 
 ### Tesis türleri
 
